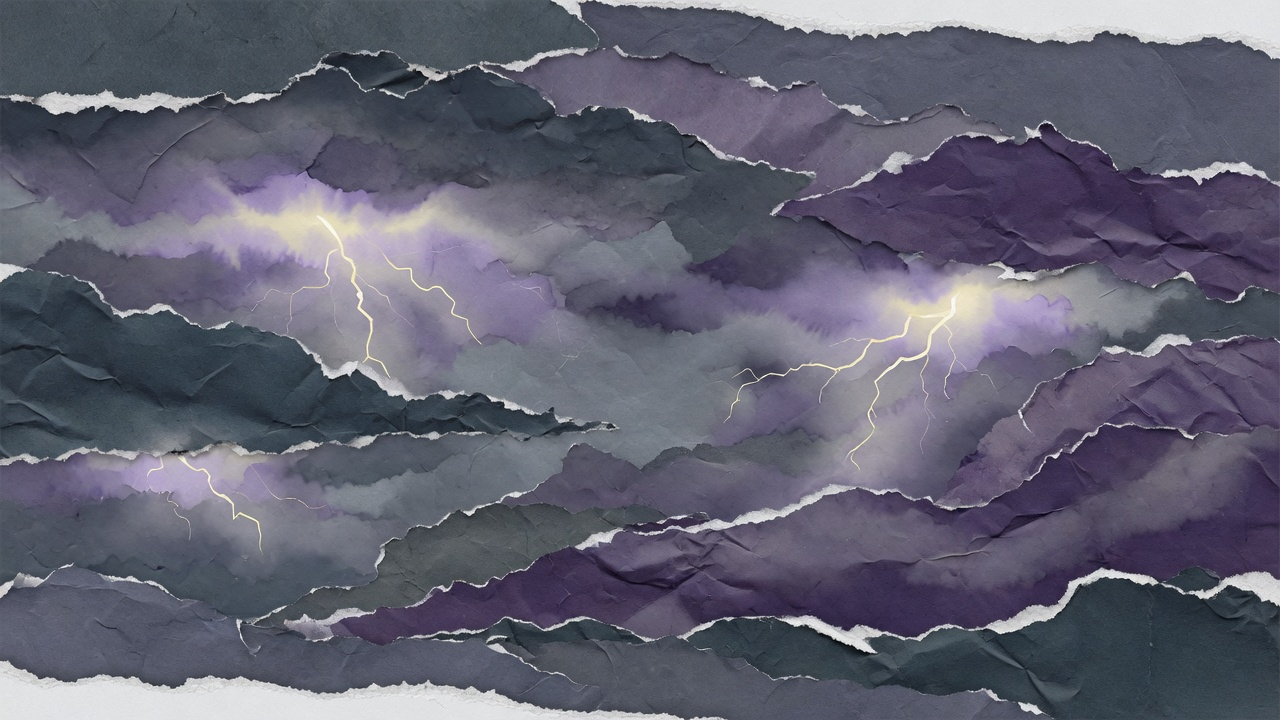
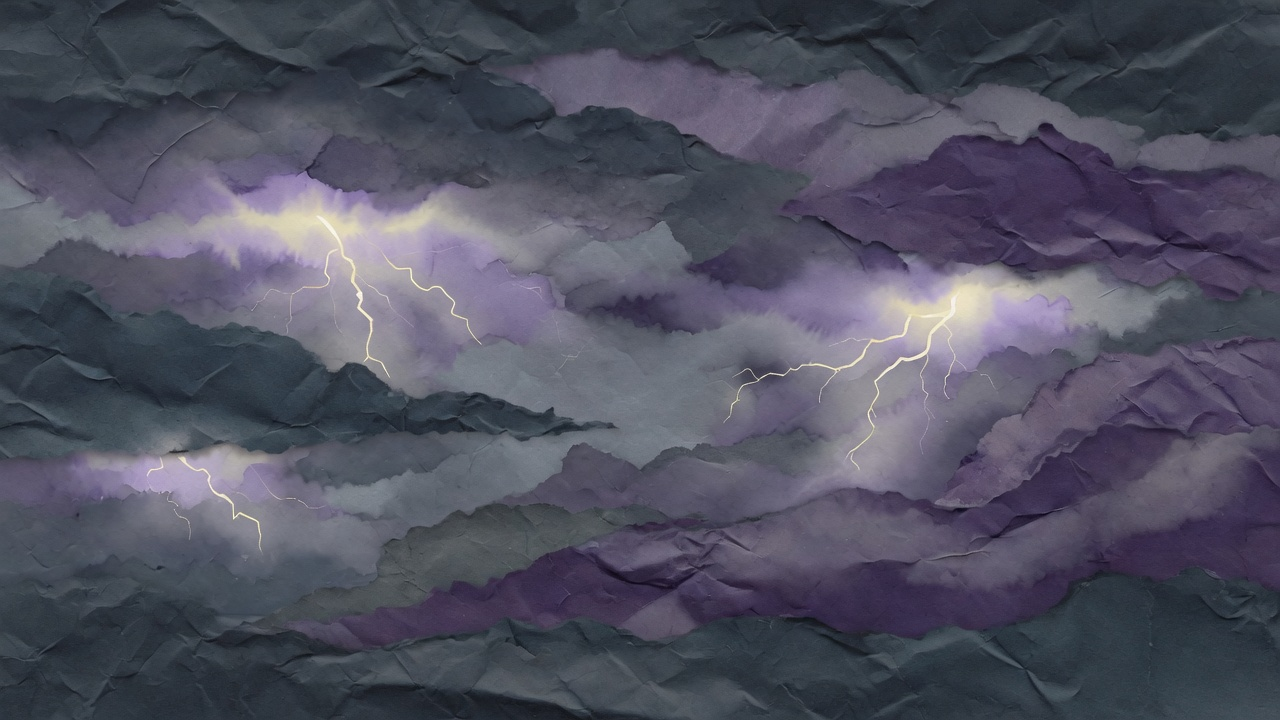
Polish paper-world pickups, skies, and opening star lane
Keep the first 40m of flight in the city band with a guaranteed mid-lane star, isolated origami pickup art, and full-bleed city/storm skies so collectibles and zones actually read in play.

diff --git a/src/flight-engine.js b/src/flight-engine.js
@@ -118,7 +118,7 @@ import {
   createStarStreakState,
   registerStarPickup,
 } from './game/star-streak.js'
-import { planStarSpawns } from './game/star-spawn.js'
+import { applyStarLaneTelegraph, planStarSpawns, shouldTelegraphStarLane } from './game/star-spawn.js'
 import {
   describeNearMissFloat,
   feverConfettiOffsets,
@@ -396,11 +396,21 @@ function updateFlightReadability(routeState = null) {
   let cue = 'clear'
   let label = 'FLY'
   let nearestZ = Infinity
+  const teachStars = shouldTelegraphStarLane(distance)
   for (const entity of entities) {
     const type = entity.type
     const isPickup = type === 'star' || type === 'power' || type === 'ring'
     const isHazard = type === 'building' || type === 'bird' || type === 'scissors' || type === 'boss'
-    if ((!isPickup && !isHazard) || entity.mesh.position.z < 3 || entity.mesh.position.z > 46) continue
+    if (entity.mesh.position.z < 3 || entity.mesh.position.z > 46) continue
+    if (teachStars) {
+      if (type !== 'star' && type !== 'ring') continue
+      if (entity.mesh.position.z >= nearestZ) continue
+      nearestZ = entity.mesh.position.z
+      cue = 'star'
+      label = 'STAR LINE'
+      continue
+    }
+    if (!isPickup && !isHazard) continue
     if (entity.mesh.position.z >= nearestZ) continue
     nearestZ = entity.mesh.position.z
     if (isHazard) {
@@ -752,7 +762,7 @@ installNativePerformanceListener({
 })
 
 const scene = new THREE.Scene()
-scene.fog = new THREE.Fog(0xb8d4e8, 42, 220)
+scene.fog = new THREE.Fog(0xc5daf0, 150, 380)
 const camera = new THREE.PerspectiveCamera(60, innerWidth / innerHeight, 0.1, 400)
 
 // Chase-camera framing. The camera rides CAM_HEIGHT above the plane, so the aim
@@ -2065,13 +2075,13 @@ function createScissors() {
 // Stars are by far the most frequently spawned entity in the game (every
 // chunk rolls 1-2), so building fresh geometry + material per spawn was
 // pure per-frame GC churn for an object that never changes shape or color.
-const starCoreGeo = new THREE.PlaneGeometry(1.1, 1.1)
+const starCoreGeo = new THREE.PlaneGeometry(1.55, 1.55)
 const starCoreMat = new THREE.MeshBasicMaterial({
-  map: loadCutoutTex('/assets/pickup-orb.jpg'), transparent: true, alphaTest: 0.12, side: THREE.DoubleSide, depthWrite: false,
+  map: loadCutoutTex('/assets/pickup-orb.png'), transparent: true, alphaTest: 0.18, side: THREE.DoubleSide, depthWrite: false,
 })
-const starGlowGeo = new THREE.SphereGeometry(0.62, 12, 12)
+const starGlowGeo = new THREE.SphereGeometry(0.72, 12, 12)
 const starGlowMat = new THREE.MeshBasicMaterial({
-  color: 0xfbbf24, transparent: true, opacity: 0.18, depthWrite: false,
+  color: 0xfbbf24, transparent: true, opacity: 0.28, depthWrite: false,
 })
 
 function createStar() {
@@ -2141,22 +2151,29 @@ function createPowerUp(kind) {
   ring.rotation.x = Math.PI / 2
   g.add(ring)
 
-  // Icon sprite facing player — boost gets the hero origami-rocket art,
-  // everything else uses its clean flat icon. A few kinds (like phase)
-  // don't have a matching power-${kind}.png yet; skip the icon plane for
-  // those rather than firing a doomed texture load — the crystal color,
-  // glow, and HUD emoji label already make the kind readable.
+  // Icon sprite facing player. Paper-craft cutouts for boost / shield / magnet;
+  // remaining kinds keep the flat icon sheet. Phase has no matching asset.
   const NO_ICON_KINDS = new Set(['phase'])
-  const iconUrl = isBoostHero ? '/assets/pickup-boost.jpg' : `/assets/power-${kind}.png`
+  const PAPER_ICON = {
+    boost: '/assets/pickup-boost.png',
+    shield: '/assets/power-shield.png',
+    magnet: '/assets/power-magnet.png',
+    slow: '/assets/power-slow.png',
+    tear: '/assets/power-tear.png',
+    clip: '/assets/power-clip.png',
+    sling: '/assets/power-sling.png',
+  }
+  const iconUrl = PAPER_ICON[kind] || `/assets/power-${kind}.png`
+  const paperIcon = Boolean(PAPER_ICON[kind])
   try {
     if (NO_ICON_KINDS.has(kind)) throw new Error('no icon asset')
     if (!mats.iconMat) {
-      const tex = isBoostHero ? loadCutoutTex(iconUrl) : loadTex(iconUrl)
+      const tex = paperIcon ? loadCutoutTex(iconUrl) : loadTex(iconUrl)
       mats.iconMat = new THREE.MeshBasicMaterial({
-        map: tex, transparent: true, alphaTest: isBoostHero ? 0.12 : 0, depthWrite: false, side: THREE.DoubleSide,
+        map: tex, transparent: true, alphaTest: paperIcon ? 0.16 : 0, depthWrite: false, side: THREE.DoubleSide,
       })
     }
-    const icon = new THREE.Mesh(isBoostHero ? powerIconGeoBoost : powerIconGeoDefault, mats.iconMat)
+    const icon = new THREE.Mesh(paperIcon ? powerIconGeoBoost : powerIconGeoDefault, mats.iconMat)
     icon.position.z = 0.55
     icon.rotation.y = Math.PI
     g.add(icon)
@@ -2291,8 +2308,8 @@ let zoneBannerTimer = 0
 /** @type {any[]} */
 const entities = []
 const clouds = []
-const MIN_Y = 1.4
-const MAX_Y = 26
+const MIN_Y = 2.2
+const MAX_Y = 16.5
 const MAX_X = 13
 const MAX_VEL = 38
 
@@ -2474,14 +2491,14 @@ function spawnChunk(z) {
     }
   } else if (ht === 'scissors') {
     const sc = createScissors()
-    sc.position.set(safeAirX(4.5 * cfg.gap, 1.6), 4 + rng() * 16, z)
+    sc.position.set(safeAirX(4.5 * cfg.gap, 1.6), 4.4 + rng() * 10.2, z)
     scene.add(sc)
     entities.push({ mesh: sc, type: 'scissors', radius: 1.6, passageLane: safeLane })
     // Scissor squadron — a rarer second blade further down the lane, more
     // likely to appear the deeper into a run you get.
     if (rng() < 0.12 + ramp * 0.22) {
       const sc2 = createScissors()
-      sc2.position.set(safeAirX(4.5 * cfg.gap, 1.6), 4 + rng() * 16, z + 6 + rng() * 4)
+      sc2.position.set(safeAirX(4.5 * cfg.gap, 1.6), 4.4 + rng() * 10.2, z + 6 + rng() * 4)
       scene.add(sc2)
       entities.push({ mesh: sc2, type: 'scissors', radius: 1.6, passageLane: safeLane })
     }
@@ -2491,7 +2508,7 @@ function spawnChunk(z) {
   if (rng() < 0.18 + ramp * 0.1) {
     const def = pickFlyerKind()
     const flyer = createFlyer(def.id)
-    flyer.position.set(safeAirX(5.5 * cfg.gap, def.radius), 4 + rng() * 16, z + 4 + rng() * 6)
+    flyer.position.set(safeAirX(5.5 * cfg.gap, def.radius), 4.4 + rng() * 10.2, z + 4 + rng() * 6)
     scene.add(flyer)
     entities.push({
       mesh: flyer,
@@ -2504,7 +2521,7 @@ function spawnChunk(z) {
   }
 
   const ufx = activeUpgradeEffects
-  const starPlan = planStarSpawns({
+  const starPlan = applyStarLaneTelegraph(planStarSpawns({
     random: rng,
     starChance: cfg.starChance,
     powerChance: cfg.powerChance,
@@ -2513,13 +2530,19 @@ function spawnChunk(z) {
     powerChanceMul: ufx.powerChanceMul,
     twistStarMul: activeTwist?.starMul || 1,
     doubleStarBonus: ufx.doubleStarBonus,
-  })
+  }), { distance, midY: 8 })
   // Stars — often 1–2; Gold Rush raises cluster odds through planStarSpawns
   for (let s = 0; s < starPlan.starCount; s++) {
     const st = createStar()
-    st.position.set(safePickupX(), 3 + rng() * 17, z + rng() * 8)
+    const telegraph = starPlan.telegraph && s === 0
+    const y = telegraph ? starPlan.telegraphY + (rng() - 0.5) * 0.8 : 5.2 + rng() * 8.4
+    const x = telegraph && safeLane !== null
+      ? PASSAGE_LANE_X[safeLane + 1] + (rng() - 0.5) * 0.45
+      : safePickupX()
+    if (telegraph) st.scale.setScalar(starPlan.telegraphScale)
+    st.position.set(x, y, z + rng() * 8)
     scene.add(st)
-    entities.push({ mesh: st, type: 'star', radius: 0.9, cluster: starPlan.cluster })
+    entities.push({ mesh: st, type: 'star', radius: telegraph ? 1.15 : 0.9, cluster: starPlan.cluster, telegraph })
   }
   if (starPlan.cluster && starPlan.starCount > 0 && ufx.doubleStarBonus > 0) {
     powerBanner.textContent = '💰 Gold Rush cluster!'
@@ -2536,7 +2559,7 @@ function spawnChunk(z) {
     const kind = pool[(rng() * pool.length) | 0]
     const pu = createPowerUp(kind)
     // Prefer mid-lane height where player flies
-    pu.position.set(safePickupX(), 5 + rng() * 12, z + 1 + rng() * 5)
+    pu.position.set(safePickupX(), 5.4 + rng() * 8.2, z + 1 + rng() * 5)
     scene.add(pu)
     entities.push({ mesh: pu, type: 'power', radius: 1.35, kind })
   }
@@ -2730,7 +2753,7 @@ function dispatchJourneyEncounter(event) {
     break
   case 'reveal':
     journeyVisibilityTimer = 0
-    scene.fog.far = (settings.reducedMotion ? 200 : 240) * (activeTwist?.fogMul ?? 1)
+    scene.fog.far = (settings.reducedMotion ? 260 : 320) * (activeTwist?.fogMul ?? 1)
     break
   case 'rival':
     notifications.show('🔺 Red Dart cuts across the aurora — hold your line!', {
@@ -3079,7 +3102,7 @@ function resetGame() {
   speed = difficulty.speedBase
   // Dead-center spawn every run
   planeX = 0
-  planeY = 10
+  planeY = 8
   velY = 0
   velX = 0
   pitch = 0
@@ -3186,7 +3209,7 @@ function resetGame() {
     rng = Math.random
     activeTwist = null
   }
-  scene.fog.far = (settings.reducedMotion ? 200 : 240) * (activeTwist?.fogMul ?? 1)
+  scene.fog.far = (settings.reducedMotion ? 260 : 320) * (activeTwist?.fogMul ?? 1)
 
   plane.position.set(0, planeY, 0)
   plane.rotation.set(0, 0, 0)
@@ -3918,7 +3941,7 @@ async function startGame(kind = 'classic', opts = {}) {
       hudEl?.classList.remove('hidden')
       if (planeX === undefined || Number.isNaN(planeX)) {
         planeX = 0
-        planeY = 10
+        planeY = 8
       }
     } catch {
       /* ignore */
@@ -4808,7 +4831,7 @@ function update(dt) {
   if (journeyVisibilityTimer > 0) {
     journeyVisibilityTimer = Math.max(0, journeyVisibilityTimer - dt)
     if (journeyVisibilityTimer === 0) {
-      scene.fog.far = (settings.reducedMotion ? 200 : 240) * (activeTwist?.fogMul ?? 1)
+      scene.fog.far = (settings.reducedMotion ? 260 : 320) * (activeTwist?.fogMul ?? 1)
     }
   }
   if (fireCooldown > 0) fireCooldown = Math.max(0, fireCooldown - dt)
@@ -5440,7 +5463,7 @@ function update(dt) {
         magnetBonus: ufx.magnetBonus,
         starRadius: e.radius,
         planeRadius: PLANE_COLLISION_RADIUS,
-      }).catchRadius
+      }).catchRadius * (e.telegraph || shouldTelegraphStarLane(distance) ? 1.18 : 1)
       if (dx * dx + dy * dy + dz * dz < catchR ** 2) {
         stars++
         if (journeyTelemetry) journeyTelemetry.collectedJourneyStars += 1

diff --git a/test/starSpawn.test.js b/test/starSpawn.test.js
@@ -1,5 +1,5 @@
 import { describe, expect, test } from 'vitest'
-import { planStarSpawns } from '../src/game/star-spawn.js'
+import { applyStarLaneTelegraph, planStarSpawns, shouldTelegraphStarLane } from '../src/game/star-spawn.js'
 
 function sequence(values) {
   let index = 0
@@ -32,5 +32,26 @@ describe('gold rush star clusters', () => {
     expect(goldRush.cluster).toBe(true)
     expect(goldRush.starCount).toBe(2)
     expect(goldRush.rates.doubleStarChance).toBeGreaterThan(baseline.rates.doubleStarChance)
+  })
+})
+
+describe('opening star-lane telegraph', () => {
+  test('is active only in the first 40 meters', () => {
+    expect(shouldTelegraphStarLane(0)).toBe(true)
+    expect(shouldTelegraphStarLane(39.9)).toBe(true)
+    expect(shouldTelegraphStarLane(40)).toBe(false)
+  })
+
+  test('guarantees a readable mid-lane star when the chunk would otherwise be empty', () => {
+    const empty = planStarSpawns({
+      random: sequence([0.99, 0.99, 0.99]),
+      starChance: 0.01,
+    })
+    expect(empty.starCount).toBe(0)
+    const taught = applyStarLaneTelegraph(empty, { distance: 12, midY: 8 })
+    expect(taught.telegraph).toBe(true)
+    expect(taught.starCount).toBe(1)
+    expect(taught.telegraphY).toBe(8)
+    expect(taught.telegraphScale).toBeGreaterThan(1)
   })
 })

diff --git a/src/game/star-spawn.js b/src/game/star-spawn.js
@@ -42,3 +42,29 @@ export function planStarSpawns({
     powerSpawn: sample() < rates.powerChance,
   })
 }
+
+export const STAR_TELEGRAPH_DISTANCE = 40
+
+export function shouldTelegraphStarLane(distance = 0) {
+  return (Number(distance) || 0) < STAR_TELEGRAPH_DISTANCE
+}
+
+/** First 40m: keep a readable star on the reserved lane at mid altitude. */
+export function applyStarLaneTelegraph(plan, { distance = 0, midY = 8 } = {}) {
+  const telegraph = shouldTelegraphStarLane(distance)
+  const source = plan && typeof plan === 'object' ? plan : {}
+  const starCount = telegraph ? Math.max(1, Number(source.starCount) || 0) : Number(source.starCount) || 0
+  const placements = Array.isArray(source.placements) && source.placements.length
+    ? source.placements
+    : starCount > 0
+      ? Object.freeze([0])
+      : Object.freeze([])
+  return Object.freeze({
+    ...source,
+    starCount,
+    placements: Object.freeze(placements.slice(0, Math.max(starCount, placements.length))),
+    telegraph,
+    telegraphY: telegraph ? midY : null,
+    telegraphScale: telegraph ? 1.38 : 1,
+  })
+}
